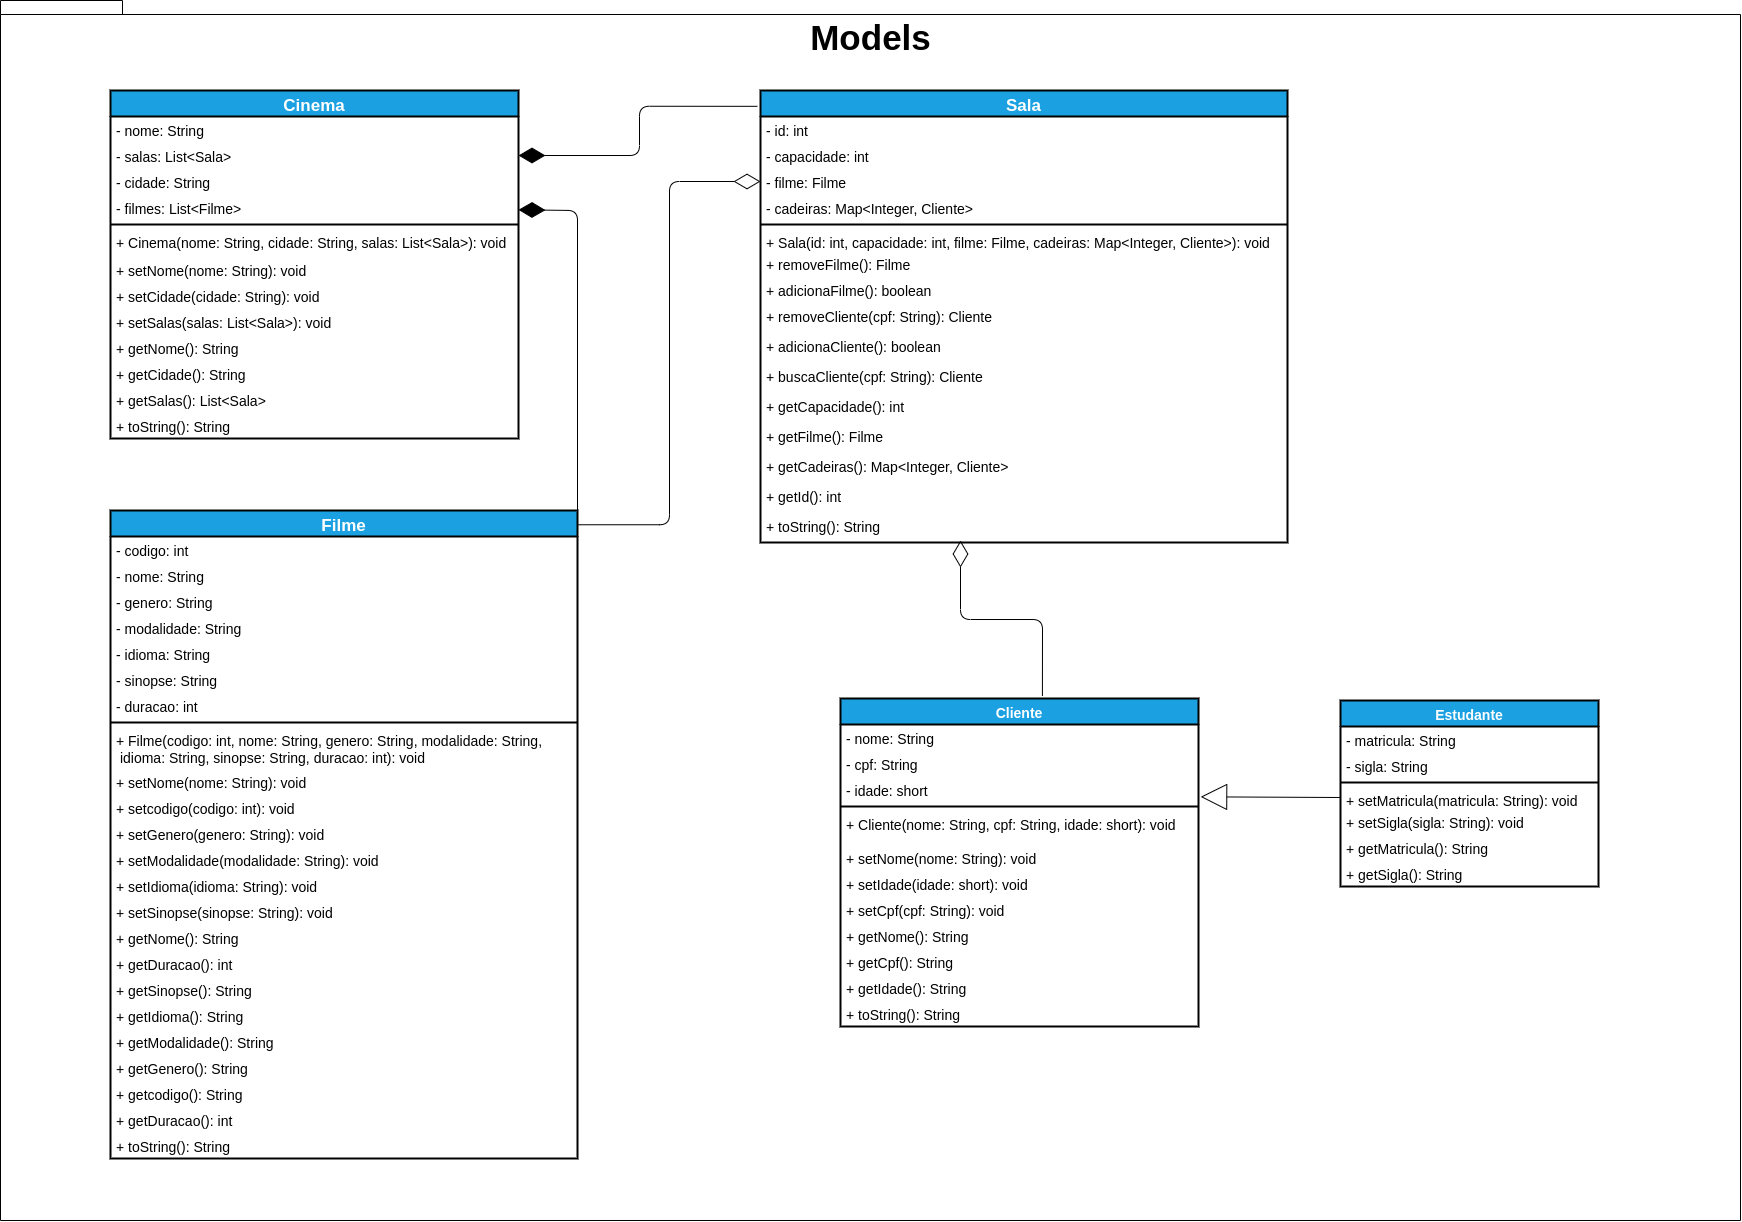
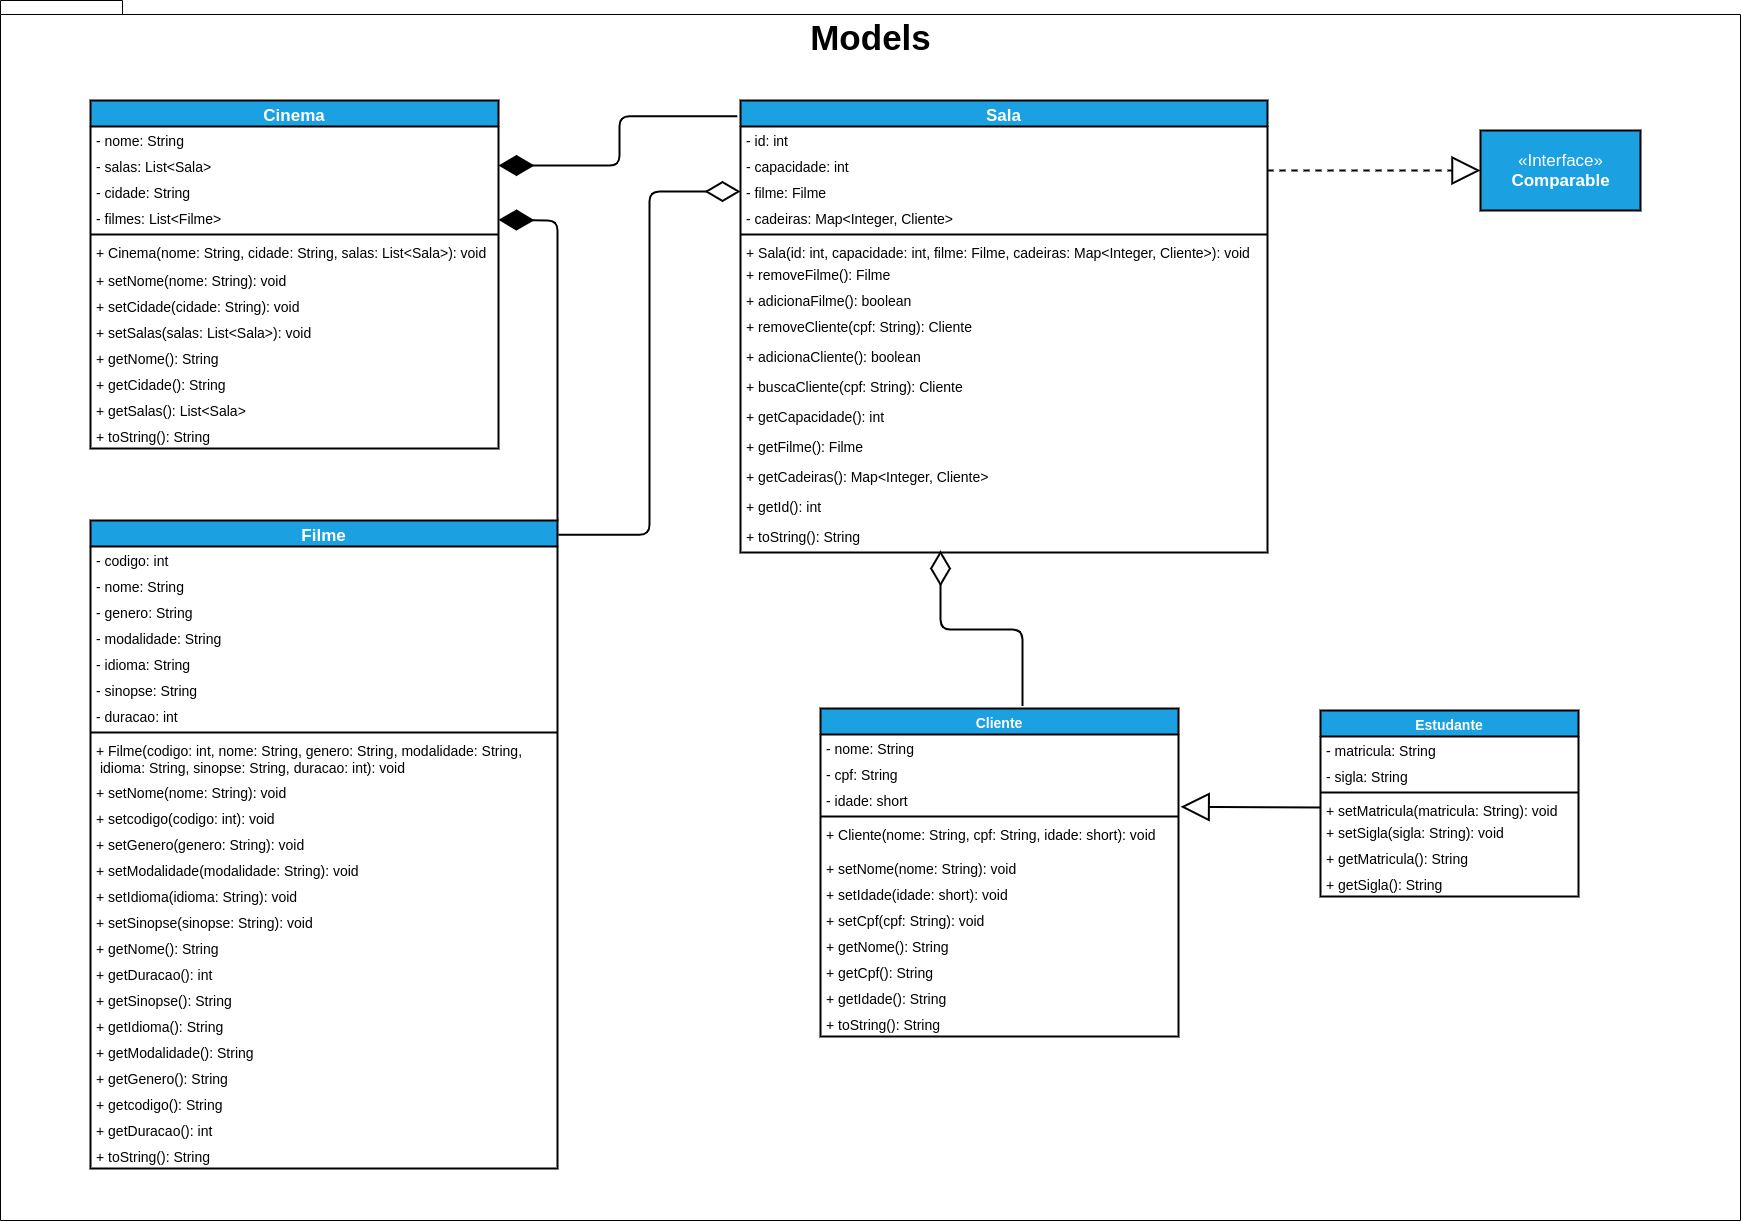
Modificaçoes

diff --git a/src/models/Sala.java b/src/models/Sala.java
@@ -2,42 +2,52 @@ package models;
 
 import java.util.Map;
 
-public class Sala {
-  private int id;
-  private int capacidade;
-  private Filme filme;
-  private Map<Integer, Cliente> cadeiras;
+public class Sala implements Comparable<Sala> {
+    private int id;
+    private int capacidade;
+    private Filme filme;
+    private Map<Integer, Cliente> cadeiras;
 
-  public Sala(int id, int capacidade, Filme filme, Map<Integer, Cliente> cadeiras) {
-    this.id = id;
-    this.capacidade = capacidade;
-    this.filme = filme;
-    this.cadeiras = cadeiras;
-  }
+    public Sala(int id, int capacidade, Filme filme, Map<Integer, Cliente> cadeiras) {
+        this.id = id;
+        this.capacidade = capacidade;
+        this.filme = filme;
+        this.cadeiras = cadeiras;
+    }
 
-  public int getId() {
-    return id;
-  }
+    public int getId() {
+        return id;
+    }
 
-  public int getCapacidade() {
-    return this.capacidade;
-  }
+    public int getCapacidade() {
+        return this.capacidade;
+    }
 
-  public Filme getFilme() {
-    return this.filme;
-  }
+    public Filme getFilme() {
+        return this.filme;
+    }
+    
+    public void setFilme(Filme filme) {
+        this.filme = filme;
+    }
 
-  public void setFilme(Filme filme) {
-    this.filme = filme;
-  }
+    public Map<Integer, Cliente> getCadeiras() {
+        return this.cadeiras;
+    }
 
-  public Map<Integer, Cliente> getCadeiras() {
-    return this.cadeiras;
-  }
+    @Override
+    public String toString() {
+        return null;
+    }
 
-  @Override
-  public String toString() {
-    return null;
-  }
+    /**
+     * inteiro negativo, se o objeto atual for menor que o argumento.
+     * zero, se o objeto atual for igual ao argumento.
+     * inteiro positivo, se o objeto atual for maior que o argumento.
+     */
+    @Override
+    public int compareTo(Sala o) {
+        return Integer.compare(this.id, o.getId());
+    }
 
 }

diff --git a/src/models/Cliente.java b/src/models/Cliente.java
@@ -1,43 +1,45 @@
 package models;
 
-public class Cliente {
-  private String nome;
-  private String cpf;
-  private short idade;
+public abstract class Cliente {
+    private String nome;
+    private String cpf;
+    private short idade;
 
-  public Cliente(String nome, String cpf, short idade) {
-    this.nome = nome;
-    this.cpf = cpf;
-    this.idade = idade;
-  }
+    public Cliente(String nome, String cpf, short idade) {
+        this.nome = nome;
+        this.cpf = cpf;
+        this.idade = idade;
+    }
 
-  public String getNome() {
-    return nome;
-  }
+    public String getNome() {
+        return nome;
+    }
 
-  public void setNome(String nome) {
-    this.nome = nome;
-  }
+    public void setNome(String nome) {
+        this.nome = nome;
+    }
 
-  public String getCpf() {
-    return cpf;
-  }
+    public String getCpf() {
+        return cpf;
+    }
 
-  public void setCpf(String cpf) {
-    this.cpf = cpf;
-  }
+    public void setCpf(String cpf) {
+        this.cpf = cpf;
+    }
 
-  public short getIdade() {
-    return idade;
-  }
+    public short getIdade() {
+        return idade;
+    }
 
-  public void setIdade(short idade) {
-    this.idade = idade;
-  }
+    public void setIdade(short idade) {
+        this.idade = idade;
+    }
 
-  @Override
-  public String toString() {
-    return null;
-  }
+    @Override
+    public String toString() {
+        String out = "Nome: " + getNome() + "\nIdade: " 
+            + getIdade() + "\nCPF: " + getCpf();
+        return out;
+    }
 
 }

diff --git a/src/models/Cinema.java b/src/models/Cinema.java
@@ -6,6 +6,7 @@ import java.util.Scanner;
 
 public class Cinema {
     private String nome;
+    //private Sala[] salas; //para dar certo o sort
     private List<Sala> salas;
     private List<Filme> filmes;
     private String cidade;
@@ -52,19 +53,32 @@ public class Cinema {
         System.out.println("Digite a capacidade da sala: ");
         int capacidade = sc.nextInt();
         Sala sala = new Sala(id_sala, capacidade, null, null);
-        this.salas.add(id_sala - 1, sala);
+        this.salas.add(sala);
+
+        //Sala[] sala = new Sala[3]
+        //sala[0] = new Sala(id, capacidade, null, null)
+        //Arrays.sort(sala);
         sc.close();
         return true;
     }
 
     public boolean adicionaFilme() {
-        String codigo_filme = sc.nextLine();
+        System.out.print("Nome do Filme: ");
         String nome = sc.nextLine();
+        System.out.print("Código: ");
+        String codigo_filme = sc.nextLine();
+        System.out.print("Gênero: ");
         String genero = sc.nextLine();
+        System.out.print("3D ou 2D: ");
         String modalidade = sc.nextLine();
+        System.out.print("Dublado ou legendado: ");
         String idioma = sc.nextLine();
+        System.out.print("Sinopse: ");
         String sinopse = sc.nextLine();
+        System.out.print("Duração do filme: ");
         int duracao = sc.nextInt();
+        Filme filme = new Filme(codigo_filme, nome, genero, modalidade, idioma, sinopse, duracao);
+        filmes.add(filme);
         return true;
     }
 

diff --git a/src/models/Estudante.java b/src/models/Estudante.java
@@ -28,4 +28,11 @@ public class Estudante extends Cliente {
 		this.siglaFaculdade = siglaFaculdade;
 	}
 
+    @Override
+    public String toString() {
+        String out = super.toString();
+        out += "\nMatrícula: " + getMatricula() 
+            + "\n Faculdade: " + getSiglaFaculdade();
+        return out;
+    }
 }

diff --git a/src/models/Filme.java b/src/models/Filme.java
@@ -20,7 +20,11 @@ public class Filme {
 		this.duracao = duracao;
 	}
 
-	public String getModalidade() {
+	public Filme(String codigo_filme, String nome2, String genero2, String modalidade2, String idioma2, String sinopse2,
+            int duracao2) {
+    }
+
+    public String getModalidade() {
 		return modalidade;
 	}
 
